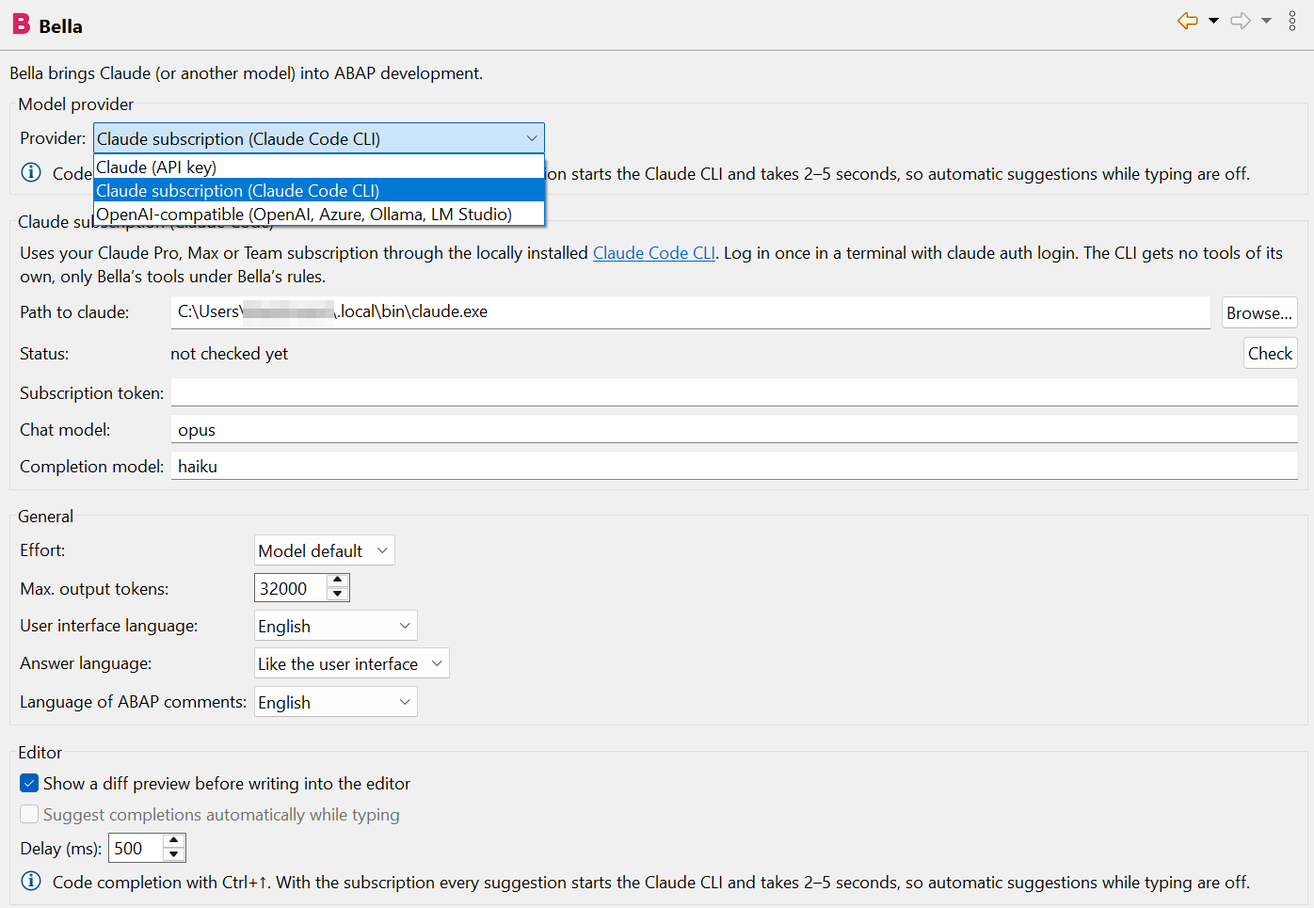
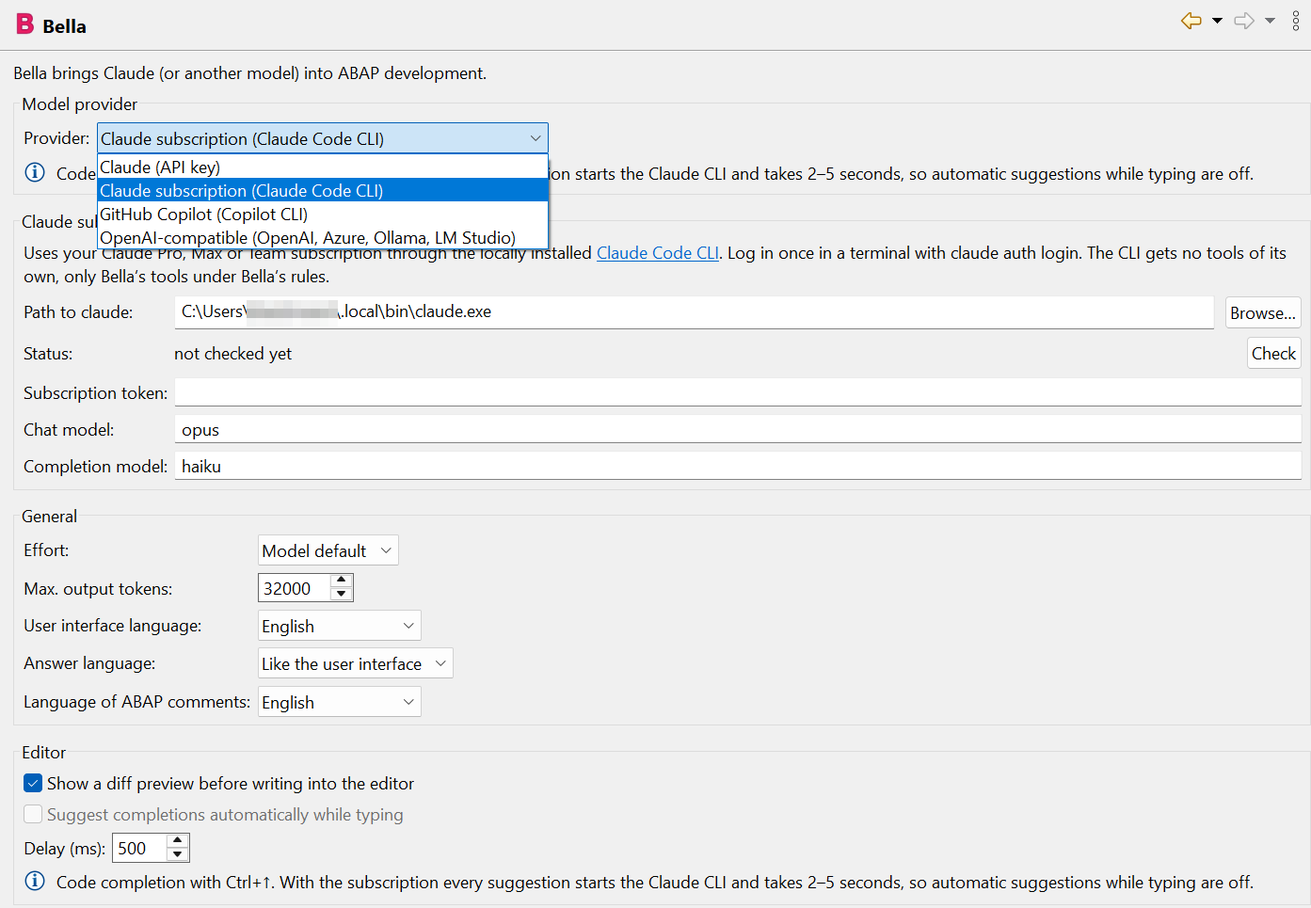
Explain how to find the claude and copilot executables; new screenshot
- README: (Get-Command claude|copilot).Source in PowerShell, which on
  macOS/Linux, typical Windows paths for winget and npm
- Path field tooltip and "not found" status name the command to run
- Texts in all 14 languages
- Preferences screenshot with all four providers (user name pixelated)

Claude-Session: https://claude.ai/code/session_01NWpsYybQ8b2HaWLL2hW7GM

diff --git a/releng/i18n/ru.py b/releng/i18n/ru.py
@@ -109,14 +109,14 @@ MESSAGES = {
  "prefs.cc": "Подписка Claude (Claude Code)",
  "prefs.cc.intro": "Использует вашу подписку Claude Pro, Max или Team через локально установленный <a href=\"https://claude.com/claude-code\">Claude Code CLI</a>. Один раз войдите в терминале командой claude auth login. У CLI нет собственных инструментов, только инструменты Bella по правилам Bella.",
  "prefs.cc.executable": "Путь к claude:",
- "prefs.cc.executable.tip": "Оставьте пустым, чтобы искать в PATH и обычных местах установки",
+ "prefs.cc.executable.tip": "Оставьте пустым, чтобы искать в PATH и обычных местах установки. Найти путь: (Get-Command {0}).Source в PowerShell или which {0} в macOS/Linux.",
  "prefs.cc.browse": "Обзор…",
  "prefs.cc.status": "Статус:",
  "prefs.cc.check": "Проверить",
  "prefs.cc.status.unknown": "ещё не проверено",
  "prefs.cc.status.checking": "проверка…",
  "prefs.cc.status.ok": "вход выполнен ({0}) · {1}",
- "prefs.cc.status.notFound": "Claude Code CLI не найден — установите его или укажите путь",
+ "prefs.cc.status.notFound": "Claude Code CLI не найден — установите или укажите путь; найти его можно командой (Get-Command claude).Source в PowerShell или which claude в macOS/Linux",
  "prefs.cc.status.notLoggedIn": "вход не выполнен — выполните claude auth login в терминале",
  "prefs.cc.status.apiKey": "используется ключ API, а не подписка — выполните claude auth login",
  "prefs.cc.status.error": "проверка не удалась: {0}",
@@ -138,7 +138,7 @@ MESSAGES = {
  "prefs.cp.executable": "Путь к copilot:",
  "prefs.cp.status.ok": "вход выполнен · {0}",
  "prefs.cp.status.models": "Модели: {0}",
- "prefs.cp.status.notFound": "Copilot CLI не найден — установите его или укажите путь",
+ "prefs.cp.status.notFound": "Copilot CLI не найден — установите или укажите путь; найти его можно командой (Get-Command copilot).Source в PowerShell или which copilot в macOS/Linux",
  "prefs.cp.status.notLoggedIn": "вход не выполнен — выполните copilot login в терминале",
  "prefs.cp.token": "Токен (Copilot Requests):",
  "prefs.cp.token.tip": "Необязательно: детализированный персональный токен доступа с разрешением Copilot Requests, если Eclipse не видит вход copilot. Классические токены ghp_ не поддерживаются.",

diff --git a/releng/i18n/ja.py b/releng/i18n/ja.py
@@ -109,14 +109,14 @@ MESSAGES = {
  "prefs.cc": "Claude サブスクリプション（Claude Code）",
  "prefs.cc.intro": "ローカルにインストールした <a href=\"https://claude.com/claude-code\">Claude Code CLI</a> を通じて Claude Pro／Max／Team サブスクリプションを使います。ターミナルで一度 claude auth login を実行してログインしてください。CLI 自体のツールは使わず、Bella のルールに従って Bella のツールだけを使います。",
  "prefs.cc.executable": "claude のパス：",
- "prefs.cc.executable.tip": "空欄の場合は PATH と一般的なインストール先を検索します",
+ "prefs.cc.executable.tip": "空欄の場合は PATH と一般的なインストール先を検索します。パスの確認：PowerShell で (Get-Command {0}).Source、macOS/Linux で which {0}。",
  "prefs.cc.browse": "参照…",
  "prefs.cc.status": "状態：",
  "prefs.cc.check": "確認",
  "prefs.cc.status.unknown": "未確認",
  "prefs.cc.status.checking": "確認中…",
  "prefs.cc.status.ok": "ログイン済み（{0}）· {1}",
- "prefs.cc.status.notFound": "Claude Code CLI が見つかりません – インストールするかパスを指定してください",
+ "prefs.cc.status.notFound": "Claude Code CLI 見つかりません – インストールするかパスを入力してください。PowerShell の (Get-Command claude).Source、または macOS/Linux の which claude で確認できます",
  "prefs.cc.status.notLoggedIn": "未ログイン – ターミナルで claude auth login を実行してください",
  "prefs.cc.status.apiKey": "サブスクリプションではなく API キーを使用中 – claude auth login を実行してください",
  "prefs.cc.status.error": "確認に失敗しました：{0}",
@@ -138,7 +138,7 @@ MESSAGES = {
  "prefs.cp.executable": "copilot のパス：",
  "prefs.cp.status.ok": "ログイン済み · {0}",
  "prefs.cp.status.models": "モデル：{0}",
- "prefs.cp.status.notFound": "Copilot CLI が見つかりません – インストールするかパスを指定してください",
+ "prefs.cp.status.notFound": "Copilot CLI 見つかりません – インストールするかパスを入力してください。PowerShell の (Get-Command copilot).Source、または macOS/Linux の which copilot で確認できます",
  "prefs.cp.status.notLoggedIn": "未ログイン – ターミナルで copilot login を実行してください",
  "prefs.cp.token": "トークン（Copilot Requests）：",
  "prefs.cp.token.tip": "任意：Eclipse から copilot のログインが見えない場合の、Copilot Requests 権限を持つ細粒度の個人用アクセストークン。従来の ghp_ トークンは使用できません。",

diff --git a/releng/i18n/ko.py b/releng/i18n/ko.py
@@ -109,14 +109,14 @@ MESSAGES = {
  "prefs.cc": "Claude 구독(Claude Code)",
  "prefs.cc.intro": "로컬에 설치된 <a href=\"https://claude.com/claude-code\">Claude Code CLI</a>를 통해 Claude Pro, Max 또는 Team 구독을 사용합니다. 터미널에서 claude auth login으로 한 번 로그인하세요. CLI는 자체 도구 없이 Bella의 규칙에 따라 Bella의 도구만 사용합니다.",
  "prefs.cc.executable": "claude 경로:",
- "prefs.cc.executable.tip": "비워 두면 PATH와 일반적인 설치 위치에서 찾습니다",
+ "prefs.cc.executable.tip": "비워 두면 PATH와 일반적인 설치 위치에서 찾습니다. 경로 확인: PowerShell에서 (Get-Command {0}).Source, macOS/Linux에서 which {0}.",
  "prefs.cc.browse": "찾아보기…",
  "prefs.cc.status": "상태:",
  "prefs.cc.check": "확인",
  "prefs.cc.status.unknown": "아직 확인하지 않음",
  "prefs.cc.status.checking": "확인 중…",
  "prefs.cc.status.ok": "로그인됨({0}) · {1}",
- "prefs.cc.status.notFound": "Claude Code CLI를 찾을 수 없음 – 설치하거나 경로를 지정하세요",
+ "prefs.cc.status.notFound": "Claude Code CLI 찾을 수 없음 – 설치하거나 경로를 입력하세요. PowerShell의 (Get-Command claude).Source 또는 macOS/Linux의 which claude로 찾을 수 있습니다",
  "prefs.cc.status.notLoggedIn": "로그인 안 됨 – 터미널에서 claude auth login을 실행하세요",
  "prefs.cc.status.apiKey": "구독 대신 API 키 사용 중 – claude auth login을 실행하세요",
  "prefs.cc.status.error": "확인 실패: {0}",
@@ -138,7 +138,7 @@ MESSAGES = {
  "prefs.cp.executable": "copilot 경로:",
  "prefs.cp.status.ok": "로그인됨 · {0}",
  "prefs.cp.status.models": "모델: {0}",
- "prefs.cp.status.notFound": "Copilot CLI를 찾을 수 없음 – 설치하거나 경로를 지정하세요",
+ "prefs.cp.status.notFound": "Copilot CLI 찾을 수 없음 – 설치하거나 경로를 입력하세요. PowerShell의 (Get-Command copilot).Source 또는 macOS/Linux의 which copilot로 찾을 수 있습니다",
  "prefs.cp.status.notLoggedIn": "로그인 안 됨 – 터미널에서 copilot login을 실행하세요",
  "prefs.cp.token": "토큰(Copilot Requests):",
  "prefs.cp.token.tip": "선택 사항: Eclipse에서 copilot 로그인이 보이지 않을 때 사용할 Copilot Requests 권한이 있는 세분화된 개인 액세스 토큰. 기존 ghp_ 토큰은 지원되지 않습니다.",

diff --git a/releng/i18n/fr.py b/releng/i18n/fr.py
@@ -110,14 +110,14 @@ MESSAGES = {
  "prefs.cc": "Abonnement Claude (Claude Code)",
  "prefs.cc.intro": "Utilise votre abonnement Claude Pro, Max ou Team via le <a href=\"https://claude.com/claude-code\">Claude Code CLI</a> installé localement. Connectez-vous une fois dans un terminal avec claude auth login. Le CLI n’a pas d’outils propres, seulement ceux de Bella avec les règles de Bella.",
  "prefs.cc.executable": "Chemin de claude :",
- "prefs.cc.executable.tip": "Laisser vide pour chercher dans PATH et les emplacements d’installation habituels",
+ "prefs.cc.executable.tip": "Laisser vide pour chercher dans PATH et les emplacements habituels. Pour trouver le chemin : (Get-Command {0}).Source dans PowerShell, ou which {0} sous macOS/Linux.",
  "prefs.cc.browse": "Parcourir…",
  "prefs.cc.status": "État :",
  "prefs.cc.check": "Vérifier",
  "prefs.cc.status.unknown": "pas encore vérifié",
  "prefs.cc.status.checking": "vérification…",
  "prefs.cc.status.ok": "connecté ({0}) · {1}",
- "prefs.cc.status.notFound": "Claude Code CLI introuvable – installez-le ou indiquez le chemin",
+ "prefs.cc.status.notFound": "Claude Code CLI introuvable – installez-le ou indiquez le chemin ; trouvez-le avec (Get-Command claude).Source dans PowerShell ou which claude sous macOS/Linux",
  "prefs.cc.status.notLoggedIn": "non connecté – exécutez claude auth login dans un terminal",
  "prefs.cc.status.apiKey": "utilise une clé API et non l’abonnement – exécutez claude auth login",
  "prefs.cc.status.error": "échec de la vérification : {0}",
@@ -139,7 +139,7 @@ MESSAGES = {
  "prefs.cp.executable": "Chemin de copilot :",
  "prefs.cp.status.ok": "connecté · {0}",
  "prefs.cp.status.models": "Modèles : {0}",
- "prefs.cp.status.notFound": "Copilot CLI introuvable – installez-le ou indiquez le chemin",
+ "prefs.cp.status.notFound": "Copilot CLI introuvable – installez-le ou indiquez le chemin ; trouvez-le avec (Get-Command copilot).Source dans PowerShell ou which copilot sous macOS/Linux",
  "prefs.cp.status.notLoggedIn": "non connecté – exécutez copilot login dans un terminal",
  "prefs.cp.token": "Jeton (Copilot Requests) :",
  "prefs.cp.token.tip": "Facultatif : jeton d’accès personnel à granularité fine avec l’autorisation Copilot Requests, si Eclipse ne voit pas la connexion copilot. Les jetons classiques ghp_ ne sont pas pris en charge.",

diff --git a/releng/i18n/cs.py b/releng/i18n/cs.py
@@ -109,14 +109,14 @@ MESSAGES = {
  "prefs.cc": "Předplatné Claude (Claude Code)",
  "prefs.cc.intro": "Používá vaše předplatné Claude Pro, Max nebo Team přes lokálně nainstalované <a href=\"https://claude.com/claude-code\">Claude Code CLI</a>. Jednou se přihlaste v terminálu příkazem claude auth login. CLI nemá vlastní nástroje, jen nástroje Belly s pravidly Belly.",
  "prefs.cc.executable": "Cesta ke claude:",
- "prefs.cc.executable.tip": "Nechte prázdné pro hledání v PATH a obvyklých umístěních instalace",
+ "prefs.cc.executable.tip": "Nechte prázdné pro hledání v PATH a obvyklých umístěních. Cestu zjistíte: (Get-Command {0}).Source v PowerShellu, nebo which {0} v macOS/Linuxu.",
  "prefs.cc.browse": "Procházet…",
  "prefs.cc.status": "Stav:",
  "prefs.cc.check": "Zkontrolovat",
  "prefs.cc.status.unknown": "zatím nezkontrolováno",
  "prefs.cc.status.checking": "probíhá kontrola…",
  "prefs.cc.status.ok": "přihlášeno ({0}) · {1}",
- "prefs.cc.status.notFound": "Claude Code CLI nenalezeno – nainstalujte ho nebo zadejte cestu",
+ "prefs.cc.status.notFound": "Claude Code CLI nenalezeno – nainstalujte nebo zadejte cestu; zjistíte ji pomocí (Get-Command claude).Source v PowerShellu nebo which claude v macOS/Linuxu",
  "prefs.cc.status.notLoggedIn": "nepřihlášeno – spusťte v terminálu claude auth login",
  "prefs.cc.status.apiKey": "používá klíč API místo předplatného – spusťte claude auth login",
  "prefs.cc.status.error": "kontrola selhala: {0}",
@@ -138,7 +138,7 @@ MESSAGES = {
  "prefs.cp.executable": "Cesta ke copilot:",
  "prefs.cp.status.ok": "přihlášeno · {0}",
  "prefs.cp.status.models": "Modely: {0}",
- "prefs.cp.status.notFound": "Copilot CLI nenalezeno – nainstalujte ho nebo zadejte cestu",
+ "prefs.cp.status.notFound": "Copilot CLI nenalezeno – nainstalujte nebo zadejte cestu; zjistíte ji pomocí (Get-Command copilot).Source v PowerShellu nebo which copilot v macOS/Linuxu",
  "prefs.cp.status.notLoggedIn": "nepřihlášeno – spusťte v terminálu copilot login",
  "prefs.cp.token": "Token (Copilot Requests):",
  "prefs.cp.token.tip": "Volitelné: jemně odstupňovaný osobní přístupový token s oprávněním Copilot Requests, pokud Eclipse nevidí přihlášení copilot. Klasické tokeny ghp_ nejsou podporovány.",

diff --git a/releng/i18n/pl.py b/releng/i18n/pl.py
@@ -109,14 +109,14 @@ MESSAGES = {
  "prefs.cc": "Subskrypcja Claude (Claude Code)",
  "prefs.cc.intro": "Korzysta z Twojej subskrypcji Claude Pro, Max lub Team przez lokalnie zainstalowane <a href=\"https://claude.com/claude-code\">Claude Code CLI</a>. Zaloguj się raz w terminalu poleceniem claude auth login. CLI nie ma własnych narzędzi, tylko narzędzia Belli z regułami Belli.",
  "prefs.cc.executable": "Ścieżka do claude:",
- "prefs.cc.executable.tip": "Pozostaw puste, aby przeszukać PATH i typowe lokalizacje instalacji",
+ "prefs.cc.executable.tip": "Pozostaw puste, aby przeszukać PATH i typowe lokalizacje. Jak znaleźć ścieżkę: (Get-Command {0}).Source w PowerShell lub which {0} w macOS/Linux.",
  "prefs.cc.browse": "Przeglądaj…",
  "prefs.cc.status": "Status:",
  "prefs.cc.check": "Sprawdź",
  "prefs.cc.status.unknown": "jeszcze nie sprawdzono",
  "prefs.cc.status.checking": "sprawdzanie…",
  "prefs.cc.status.ok": "zalogowano ({0}) · {1}",
- "prefs.cc.status.notFound": "Nie znaleziono Claude Code CLI – zainstaluj je lub podaj ścieżkę",
+ "prefs.cc.status.notFound": "Claude Code CLI: nie znaleziono – zainstaluj lub podaj ścieżkę; znajdziesz ją poleceniem (Get-Command claude).Source w PowerShell lub which claude w macOS/Linux",
  "prefs.cc.status.notLoggedIn": "nie zalogowano – uruchom claude auth login w terminalu",
  "prefs.cc.status.apiKey": "używa klucza API zamiast subskrypcji – uruchom claude auth login",
  "prefs.cc.status.error": "sprawdzanie nie powiodło się: {0}",
@@ -138,7 +138,7 @@ MESSAGES = {
  "prefs.cp.executable": "Ścieżka do copilot:",
  "prefs.cp.status.ok": "zalogowano · {0}",
  "prefs.cp.status.models": "Modele: {0}",
- "prefs.cp.status.notFound": "Nie znaleziono Copilot CLI – zainstaluj je lub podaj ścieżkę",
+ "prefs.cp.status.notFound": "Copilot CLI: nie znaleziono – zainstaluj lub podaj ścieżkę; znajdziesz ją poleceniem (Get-Command copilot).Source w PowerShell lub which copilot w macOS/Linux",
  "prefs.cp.status.notLoggedIn": "nie zalogowano – uruchom copilot login w terminalu",
  "prefs.cp.token": "Token (Copilot Requests):",
  "prefs.cp.token.tip": "Opcjonalnie: szczegółowy osobisty token dostępu z uprawnieniem Copilot Requests, jeśli Eclipse nie widzi logowania copilot. Klasyczne tokeny ghp_ nie są obsługiwane.",

diff --git a/releng/i18n/it.py b/releng/i18n/it.py
@@ -109,14 +109,14 @@ MESSAGES = {
  "prefs.cc": "Abbonamento Claude (Claude Code)",
  "prefs.cc.intro": "Usa il tuo abbonamento Claude Pro, Max o Team tramite la <a href=\"https://claude.com/claude-code\">Claude Code CLI</a> installata localmente. Accedi una volta in un terminale con claude auth login. La CLI non ha strumenti propri, solo quelli di Bella con le regole di Bella.",
  "prefs.cc.executable": "Percorso di claude:",
- "prefs.cc.executable.tip": "Lascia vuoto per cercare in PATH e nei percorsi di installazione abituali",
+ "prefs.cc.executable.tip": "Lascia vuoto per cercare in PATH e nei percorsi abituali. Per trovare il percorso: (Get-Command {0}).Source in PowerShell, oppure which {0} su macOS/Linux.",
  "prefs.cc.browse": "Sfoglia…",
  "prefs.cc.status": "Stato:",
  "prefs.cc.check": "Verifica",
  "prefs.cc.status.unknown": "non ancora verificato",
  "prefs.cc.status.checking": "verifica in corso…",
  "prefs.cc.status.ok": "accesso effettuato ({0}) · {1}",
- "prefs.cc.status.notFound": "Claude Code CLI non trovata – installala o indica il percorso",
+ "prefs.cc.status.notFound": "Claude Code CLI non trovato – installalo o indica il percorso; trovalo con (Get-Command claude).Source in PowerShell o which claude su macOS/Linux",
  "prefs.cc.status.notLoggedIn": "accesso non effettuato – esegui claude auth login in un terminale",
  "prefs.cc.status.apiKey": "usa una chiave API invece dell’abbonamento – esegui claude auth login",
  "prefs.cc.status.error": "verifica non riuscita: {0}",
@@ -138,7 +138,7 @@ MESSAGES = {
  "prefs.cp.executable": "Percorso di copilot:",
  "prefs.cp.status.ok": "accesso effettuato · {0}",
  "prefs.cp.status.models": "Modelli: {0}",
- "prefs.cp.status.notFound": "Copilot CLI non trovata – installala o indica il percorso",
+ "prefs.cp.status.notFound": "Copilot CLI non trovato – installalo o indica il percorso; trovalo con (Get-Command copilot).Source in PowerShell o which copilot su macOS/Linux",
  "prefs.cp.status.notLoggedIn": "accesso non effettuato – esegui copilot login in un terminale",
  "prefs.cp.token": "Token (Copilot Requests):",
  "prefs.cp.token.tip": "Facoltativo: token di accesso personale granulare con l’autorizzazione Copilot Requests, se Eclipse non vede l’accesso di copilot. I token classici ghp_ non sono supportati.",

diff --git a/releng/i18n/nl.py b/releng/i18n/nl.py
@@ -109,14 +109,14 @@ MESSAGES = {
  "prefs.cc": "Claude-abonnement (Claude Code)",
  "prefs.cc.intro": "Gebruikt je Claude Pro-, Max- of Team-abonnement via de lokaal geïnstalleerde <a href=\"https://claude.com/claude-code\">Claude Code CLI</a>. Meld je eenmaal aan in een terminal met claude auth login. De CLI krijgt geen eigen tools, alleen de tools van Bella met de regels van Bella.",
  "prefs.cc.executable": "Pad naar claude:",
- "prefs.cc.executable.tip": "Leeg laten om PATH en de gebruikelijke installatielocaties te doorzoeken",
+ "prefs.cc.executable.tip": "Leeg laten om PATH en de gebruikelijke locaties te doorzoeken. Pad vinden: (Get-Command {0}).Source in PowerShell, of which {0} op macOS/Linux.",
  "prefs.cc.browse": "Bladeren…",
  "prefs.cc.status": "Status:",
  "prefs.cc.check": "Controleren",
  "prefs.cc.status.unknown": "nog niet gecontroleerd",
  "prefs.cc.status.checking": "bezig met controleren…",
  "prefs.cc.status.ok": "aangemeld ({0}) · {1}",
- "prefs.cc.status.notFound": "Claude Code CLI niet gevonden – installeer hem of geef het pad op",
+ "prefs.cc.status.notFound": "Claude Code CLI niet gevonden – installeer of geef het pad op; vind het met (Get-Command claude).Source in PowerShell of which claude op macOS/Linux",
  "prefs.cc.status.notLoggedIn": "niet aangemeld – voer claude auth login uit in een terminal",
  "prefs.cc.status.apiKey": "gebruikt een API-sleutel in plaats van het abonnement – voer claude auth login uit",
  "prefs.cc.status.error": "controle mislukt: {0}",
@@ -138,7 +138,7 @@ MESSAGES = {
  "prefs.cp.executable": "Pad naar copilot:",
  "prefs.cp.status.ok": "aangemeld · {0}",
  "prefs.cp.status.models": "Modellen: {0}",
- "prefs.cp.status.notFound": "Copilot CLI niet gevonden – installeer hem of geef het pad op",
+ "prefs.cp.status.notFound": "Copilot CLI niet gevonden – installeer of geef het pad op; vind het met (Get-Command copilot).Source in PowerShell of which copilot op macOS/Linux",
  "prefs.cp.status.notLoggedIn": "niet aangemeld – voer copilot login uit in een terminal",
  "prefs.cp.token": "Token (Copilot Requests):",
  "prefs.cp.token.tip": "Optioneel: fine-grained persoonlijk toegangstoken met de machtiging Copilot Requests, als Eclipse de copilot-aanmelding niet ziet. Klassieke ghp_-tokens worden niet ondersteund.",

diff --git a/releng/i18n/es.py b/releng/i18n/es.py
@@ -109,14 +109,14 @@ MESSAGES = {
  "prefs.cc": "Suscripción de Claude (Claude Code)",
  "prefs.cc.intro": "Usa tu suscripción Claude Pro, Max o Team mediante el <a href=\"https://claude.com/claude-code\">Claude Code CLI</a> instalado localmente. Inicia sesión una vez en un terminal con claude auth login. El CLI no tiene herramientas propias, solo las de Bella con las reglas de Bella.",
  "prefs.cc.executable": "Ruta de claude:",
- "prefs.cc.executable.tip": "Déjalo vacío para buscar en PATH y en las ubicaciones de instalación habituales",
+ "prefs.cc.executable.tip": "Déjalo vacío para buscar en PATH y en las ubicaciones habituales. Para encontrar la ruta: (Get-Command {0}).Source en PowerShell, o which {0} en macOS/Linux.",
  "prefs.cc.browse": "Examinar…",
  "prefs.cc.status": "Estado:",
  "prefs.cc.check": "Comprobar",
  "prefs.cc.status.unknown": "aún no comprobado",
  "prefs.cc.status.checking": "comprobando…",
  "prefs.cc.status.ok": "sesión iniciada ({0}) · {1}",
- "prefs.cc.status.notFound": "Claude Code CLI no encontrado – instálalo o indica la ruta",
+ "prefs.cc.status.notFound": "Claude Code CLI no encontrado – instálalo o indica la ruta; encuéntralo con (Get-Command claude).Source en PowerShell o which claude en macOS/Linux",
  "prefs.cc.status.notLoggedIn": "sin sesión – ejecuta claude auth login en un terminal",
  "prefs.cc.status.apiKey": "usa una clave API en lugar de la suscripción – ejecuta claude auth login",
  "prefs.cc.status.error": "la comprobación falló: {0}",
@@ -138,7 +138,7 @@ MESSAGES = {
  "prefs.cp.executable": "Ruta de copilot:",
  "prefs.cp.status.ok": "sesión iniciada · {0}",
  "prefs.cp.status.models": "Modelos: {0}",
- "prefs.cp.status.notFound": "Copilot CLI no encontrado – instálalo o indica la ruta",
+ "prefs.cp.status.notFound": "Copilot CLI no encontrado – instálalo o indica la ruta; encuéntralo con (Get-Command copilot).Source en PowerShell o which copilot en macOS/Linux",
  "prefs.cp.status.notLoggedIn": "sin sesión – ejecuta copilot login en un terminal",
  "prefs.cp.token": "Token (Copilot Requests):",
  "prefs.cp.token.tip": "Opcional: token de acceso personal detallado con el permiso Copilot Requests, si Eclipse no ve el inicio de sesión de copilot. Los tokens clásicos ghp_ no son compatibles.",

diff --git a/releng/i18n/tr.py b/releng/i18n/tr.py
@@ -109,14 +109,14 @@ MESSAGES = {
  "prefs.cc": "Claude aboneliği (Claude Code)",
  "prefs.cc.intro": "Claude Pro, Max veya Team aboneliğinizi yerel olarak kurulu <a href=\"https://claude.com/claude-code\">Claude Code CLI</a> üzerinden kullanır. Bir terminalde bir kez claude auth login ile oturum açın. CLI’nin kendi araçları yoktur; yalnızca Bella’nın kurallarıyla Bella’nın araçlarını kullanır.",
  "prefs.cc.executable": "claude yolu:",
- "prefs.cc.executable.tip": "PATH ve olağan kurulum konumlarında aramak için boş bırakın",
+ "prefs.cc.executable.tip": "PATH ve olağan konumlarda aramak için boş bırakın. Yolu bulmak için: PowerShell’de (Get-Command {0}).Source, macOS/Linux’ta which {0}.",
  "prefs.cc.browse": "Gözat…",
  "prefs.cc.status": "Durum:",
  "prefs.cc.check": "Denetle",
  "prefs.cc.status.unknown": "henüz denetlenmedi",
  "prefs.cc.status.checking": "denetleniyor…",
  "prefs.cc.status.ok": "oturum açık ({0}) · {1}",
- "prefs.cc.status.notFound": "Claude Code CLI bulunamadı – kurun veya yolu belirtin",
+ "prefs.cc.status.notFound": "Claude Code CLI bulunamadı – kurun veya yolu girin; PowerShell’de (Get-Command claude).Source ya da macOS/Linux’ta which claude ile bulun",
  "prefs.cc.status.notLoggedIn": "oturum açılmamış – bir terminalde claude auth login çalıştırın",
  "prefs.cc.status.apiKey": "abonelik yerine API anahtarı kullanıyor – claude auth login çalıştırın",
  "prefs.cc.status.error": "denetim başarısız: {0}",
@@ -138,7 +138,7 @@ MESSAGES = {
  "prefs.cp.executable": "copilot yolu:",
  "prefs.cp.status.ok": "oturum açık · {0}",
  "prefs.cp.status.models": "Modeller: {0}",
- "prefs.cp.status.notFound": "Copilot CLI bulunamadı – kurun veya yolu belirtin",
+ "prefs.cp.status.notFound": "Copilot CLI bulunamadı – kurun veya yolu girin; PowerShell’de (Get-Command copilot).Source ya da macOS/Linux’ta which copilot ile bulun",
  "prefs.cp.status.notLoggedIn": "oturum açılmamış – bir terminalde copilot login çalıştırın",
  "prefs.cp.token": "Belirteç (Copilot Requests):",
  "prefs.cp.token.tip": "İsteğe bağlı: Eclipse copilot oturumunu göremiyorsa Copilot Requests izni olan ayrıntılı kişisel erişim belirteci. Klasik ghp_ belirteçleri desteklenmez.",

diff --git a/releng/i18n/de.py b/releng/i18n/de.py
@@ -190,14 +190,14 @@ MESSAGES = {
  "prefs.cc": "Claude-Abo (Claude Code)",
  "prefs.cc.intro": "Nutzt dein Claude-Abo (Pro, Max oder Team) über das lokal installierte <a href=\"https://claude.com/claude-code\">Claude Code CLI</a>. Einmal im Terminal mit claude auth login anmelden. Das CLI bekommt keine eigenen Tools, nur Bellas Tools mit Bellas Regeln.",
  "prefs.cc.executable": "Pfad zu claude:",
- "prefs.cc.executable.tip": "Leer lassen, um PATH und die üblichen Installationsorte zu durchsuchen",
+ "prefs.cc.executable.tip": "Leer lassen, um PATH und die üblichen Installationsorte zu durchsuchen. Pfad herausfinden: (Get-Command {0}).Source in PowerShell, unter macOS/Linux which {0}.",
  "prefs.cc.browse": "Durchsuchen…",
  "prefs.cc.status": "Status:",
  "prefs.cc.check": "Prüfen",
  "prefs.cc.status.unknown": "noch nicht geprüft",
  "prefs.cc.status.checking": "wird geprüft…",
  "prefs.cc.status.ok": "angemeldet ({0}) · {1}",
- "prefs.cc.status.notFound": "Claude Code CLI nicht gefunden – installieren oder Pfad angeben",
+ "prefs.cc.status.notFound": "Claude Code CLI nicht gefunden – installieren oder Pfad angeben; finden mit (Get-Command claude).Source in PowerShell oder which claude unter macOS/Linux",
  "prefs.cc.status.notLoggedIn": "nicht angemeldet – im Terminal claude auth login ausführen",
  "prefs.cc.status.apiKey": "nutzt einen API-Key statt des Abos – claude auth login ausführen",
  "prefs.cc.status.error": "Prüfung fehlgeschlagen: {0}",
@@ -219,7 +219,7 @@ MESSAGES = {
  "prefs.cp.executable": "Pfad zu copilot:",
  "prefs.cp.status.ok": "angemeldet · {0}",
  "prefs.cp.status.models": "Modelle: {0}",
- "prefs.cp.status.notFound": "Copilot CLI nicht gefunden – installieren oder Pfad angeben",
+ "prefs.cp.status.notFound": "Copilot CLI nicht gefunden – installieren oder Pfad angeben; finden mit (Get-Command copilot).Source in PowerShell oder which copilot unter macOS/Linux",
  "prefs.cp.status.notLoggedIn": "nicht angemeldet – im Terminal copilot login ausführen",
  "prefs.cp.token": "Token (Copilot Requests):",
  "prefs.cp.token.tip": "Optional: Fine-grained Personal Access Token mit der Berechtigung Copilot Requests, falls Eclipse die copilot-Anmeldung nicht sieht. Klassische ghp_-Tokens werden nicht unterstützt.",

diff --git a/releng/i18n/pt_BR.py b/releng/i18n/pt_BR.py
@@ -109,14 +109,14 @@ MESSAGES = {
  "prefs.cc": "Assinatura do Claude (Claude Code)",
  "prefs.cc.intro": "Usa sua assinatura Claude Pro, Max ou Team por meio da <a href=\"https://claude.com/claude-code\">Claude Code CLI</a> instalada localmente. Faça login uma vez em um terminal com claude auth login. A CLI não tem ferramentas próprias, apenas as da Bella com as regras da Bella.",
  "prefs.cc.executable": "Caminho do claude:",
- "prefs.cc.executable.tip": "Deixe vazio para procurar no PATH e nos locais de instalação comuns",
+ "prefs.cc.executable.tip": "Deixe vazio para procurar no PATH e nos locais comuns. Para encontrar o caminho: (Get-Command {0}).Source no PowerShell, ou which {0} no macOS/Linux.",
  "prefs.cc.browse": "Procurar…",
  "prefs.cc.status": "Status:",
  "prefs.cc.check": "Verificar",
  "prefs.cc.status.unknown": "ainda não verificado",
  "prefs.cc.status.checking": "verificando…",
  "prefs.cc.status.ok": "conectado ({0}) · {1}",
- "prefs.cc.status.notFound": "Claude Code CLI não encontrada – instale-a ou informe o caminho",
+ "prefs.cc.status.notFound": "Claude Code CLI não encontrado – instale ou informe o caminho; encontre com (Get-Command claude).Source no PowerShell ou which claude no macOS/Linux",
  "prefs.cc.status.notLoggedIn": "não conectado – execute claude auth login em um terminal",
  "prefs.cc.status.apiKey": "usa uma chave de API em vez da assinatura – execute claude auth login",
  "prefs.cc.status.error": "falha na verificação: {0}",
@@ -138,7 +138,7 @@ MESSAGES = {
  "prefs.cp.executable": "Caminho do copilot:",
  "prefs.cp.status.ok": "conectado · {0}",
  "prefs.cp.status.models": "Modelos: {0}",
- "prefs.cp.status.notFound": "Copilot CLI não encontrada – instale-a ou informe o caminho",
+ "prefs.cp.status.notFound": "Copilot CLI não encontrado – instale ou informe o caminho; encontre com (Get-Command copilot).Source no PowerShell ou which copilot no macOS/Linux",
  "prefs.cp.status.notLoggedIn": "não conectado – execute copilot login em um terminal",
  "prefs.cp.token": "Token (Copilot Requests):",
  "prefs.cp.token.tip": "Opcional: token de acesso pessoal refinado com a permissão Copilot Requests, se o Eclipse não enxergar o login do copilot. Tokens clássicos ghp_ não são suportados.",
